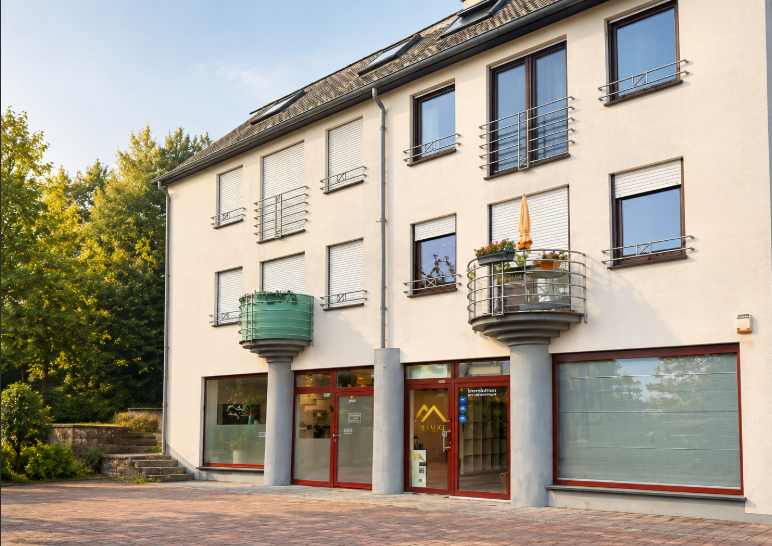
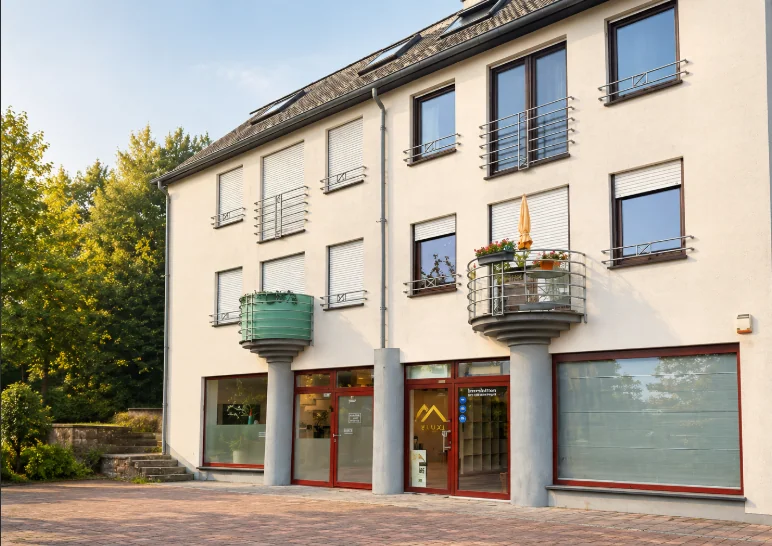
feat: refine map sizing, gallery captions, and rebuild journey animation
- Restored desktop map height to original preference and fixed mobile/tablet gray box issue
- Removed horizontal line from the PracticeGallery caption for a cleaner look
- Rebuilt Journey section scroll animation into a continuous, scroll-driven timeline
- Increased Journey line/circle thickness and changed color to ink (dark green)
- Eliminated gaps between Journey circles and lines for a seamless ink stroke effect
- Adjusted Journey animation scroll triggers to be responsive and account for mobile CTA bars
- Committed updated exterior webp images

diff --git a/src/scripts/interactions.ts b/src/scripts/interactions.ts
@@ -180,3 +180,75 @@ document.querySelectorAll<HTMLButtonElement>('.copy-btn').forEach((btn) => {
     }
   });
 });
+
+// Journey section scroll animation — unified continuous timeline
+if (!reducedMotion.matches) {
+  const journeyList = document.querySelector<HTMLOListElement>('.journey-list');
+  const journeyItems = Array.from(document.querySelectorAll<HTMLLIElement>('.journey-list li'));
+  if (journeyList && journeyItems.length) {
+    // 4 circles + 3 lines = 7 sequential segments on one timeline
+    const segmentCount = journeyItems.length * 2 - 1;
+    const segmentSize = 1 / segmentCount;
+    let ticking = false;
+
+    const updateJourneyScroll = () => {
+      const vh = window.innerHeight;
+      const rect = journeyList.getBoundingClientRect();
+
+      // Responsive triggers: mobile/tablet bottom bars eat ~70px of viewport,
+      // and smaller screens need tighter animation travel.
+      const isMobile = window.innerWidth <= 600;
+      const isTablet = window.innerWidth > 600 && window.innerWidth <= 900;
+
+      // Start: how far down the viewport the list top must reach to begin
+      // End: where the list bottom should be when the animation finishes
+      
+      // On mobile/tablet, account for the sticky CTA bar at the bottom (~80px).
+      // On laptop, start lower down the screen (90%) and complete much faster (65%).
+      const startTrigger = isMobile ? vh * 0.75 : isTablet ? vh * 0.80 : vh * 0.90;
+      const endTrigger = isMobile ? vh * 0.45 : isTablet ? vh * 0.50 : vh * 0.65;
+      const totalTravel = rect.height + startTrigger - endTrigger;
+      let globalProgress = (startTrigger - rect.top) / totalTravel;
+      globalProgress = Math.max(0, Math.min(1, globalProgress));
+
+      journeyItems.forEach((item, i) => {
+        // Circle is segment 0, 2, 4, 6 — maps to index * 2
+        const cStart = (i * 2) * segmentSize;
+        const cEnd = (i * 2 + 1) * segmentSize;
+        const circle = Math.max(0, Math.min(1, (globalProgress - cStart) / (cEnd - cStart)));
+        item.style.setProperty('--circle-progress', circle.toString());
+
+        // Line is segment 1, 3, 5 — only for non-last items
+        if (i < journeyItems.length - 1) {
+          const lStart = (i * 2 + 1) * segmentSize;
+          const lEnd = (i * 2 + 2) * segmentSize;
+          const line = Math.max(0, Math.min(1, (globalProgress - lStart) / (lEnd - lStart)));
+          item.style.setProperty('--line-progress', line.toString());
+        }
+      });
+      ticking = false;
+    };
+
+    const onScroll = () => {
+      if (!ticking) {
+        window.requestAnimationFrame(updateJourneyScroll);
+        ticking = true;
+      }
+    };
+
+    window.addEventListener('scroll', onScroll, { passive: true });
+    window.addEventListener('resize', onScroll, { passive: true });
+    updateJourneyScroll();
+
+    reducedMotion.addEventListener('change', (event) => {
+      if (event.matches) {
+        window.removeEventListener('scroll', onScroll);
+        window.removeEventListener('resize', onScroll);
+        journeyItems.forEach((item) => {
+          item.style.removeProperty('--circle-progress');
+          item.style.removeProperty('--line-progress');
+        });
+      }
+    });
+  }
+}

diff --git a/src/styles/global.css b/src/styles/global.css
@@ -739,23 +739,19 @@
   }
 
   .gallery-caption {
-    grid-column: 2;
-    grid-row: 2;
-    padding-bottom: 8px;
-    max-width: 200px;
+    grid-column: 1 / -1;
+    grid-row: 3;
+    display: flex;
+    justify-content: center;
+    align-items: center;
     font-size: 12px;
     color: var(--muted);
-    align-self: end;
-    margin-bottom: 45px;
+    padding-top: 16px;
+  }
+  .gallery-caption p {
+    margin: 0;
   }
 
-  .caption-line {
-    height: 1px;
-    width: 60px;
-    background: var(--ink);
-    display: block;
-    margin-bottom: 18px;
-  }
 
   .gallery-open {
     display: block;
@@ -919,22 +915,45 @@
   .journey-list li:not(:last-child)::before {
     content: '';
     position: absolute;
-    left: 17px;
-    top: 35px;
-    bottom: 0;
-    width: 1px;
-    background: var(--line);
+    left: 16.5px;
+    top: 33px;
+    bottom: -2px;
+    width: 2px;
+    background: var(--ink);
+    transform-origin: top;
+    transform: scaleY(var(--line-progress, 1));
+    transition: transform 0.1s ease-out;
   }
 
   .journey-number {
+    position: relative;
     font-size: 10px;
-    border: 1px solid var(--line);
     height: 35px;
     width: 35px;
     display: grid;
     place-items: center;
     flex-shrink: 0;
     border-radius: 50%;
+    border: none;
+    background: transparent;
+  }
+
+  .journey-number svg {
+    position: absolute;
+    inset: 0;
+    width: 100%;
+    height: 100%;
+  }
+
+  .journey-number circle {
+    fill: none;
+    stroke: var(--ink);
+    stroke-width: 2;
+    stroke-dasharray: 100.53;
+    stroke-dashoffset: calc(100.53 - (100.53 * var(--circle-progress, 1)));
+    transform: rotate(-90deg);
+    transform-origin: center;
+    transition: stroke-dashoffset 0.1s ease-out;
   }
 
   .journey-list h3 {
@@ -1387,7 +1406,7 @@
     display: block;
     width: 100%;
     height: 100%;
-    min-height: 500px;
+    min-height: 480px;
   }
 
   .site-footer {
@@ -1655,7 +1674,6 @@
 
     .gallery-caption {
       font-size: 11px;
-      margin-bottom: 20px;
     }
 
     .journey-section {
@@ -1690,7 +1708,8 @@
       font-size: 48px;
     }
 
-    .contact-map {
+    .contact-map iframe {
+      height: 100%;
       min-height: 440px;
     }
 
@@ -1866,16 +1885,11 @@
     }
 
     .gallery-caption {
-      margin: 27px 0 0 auto;
-      width: 68%;
-      max-width: none;
+      text-align: center;
       font-size: 10px;
+      padding-top: 20px;
     }
 
-    .caption-line {
-      margin-bottom: 12px;
-      width: 40px;
-    }
 
     .photo-enlarge {
       height: 36px;
@@ -2042,6 +2056,8 @@
     }
 
     .contact-map iframe {
+      aspect-ratio: 4 / 3;
+      height: auto;
       min-height: 350px;
     }
 
